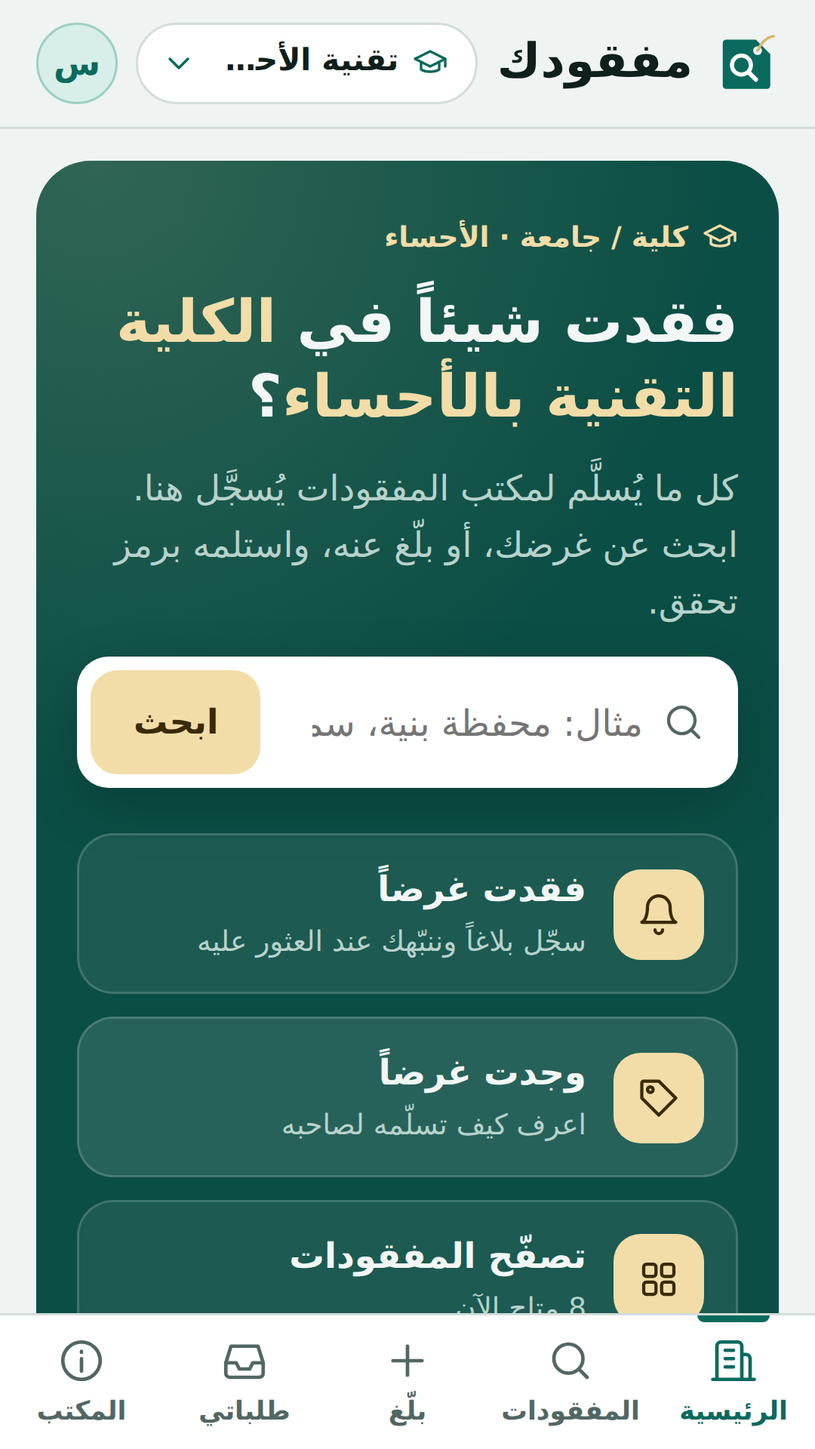
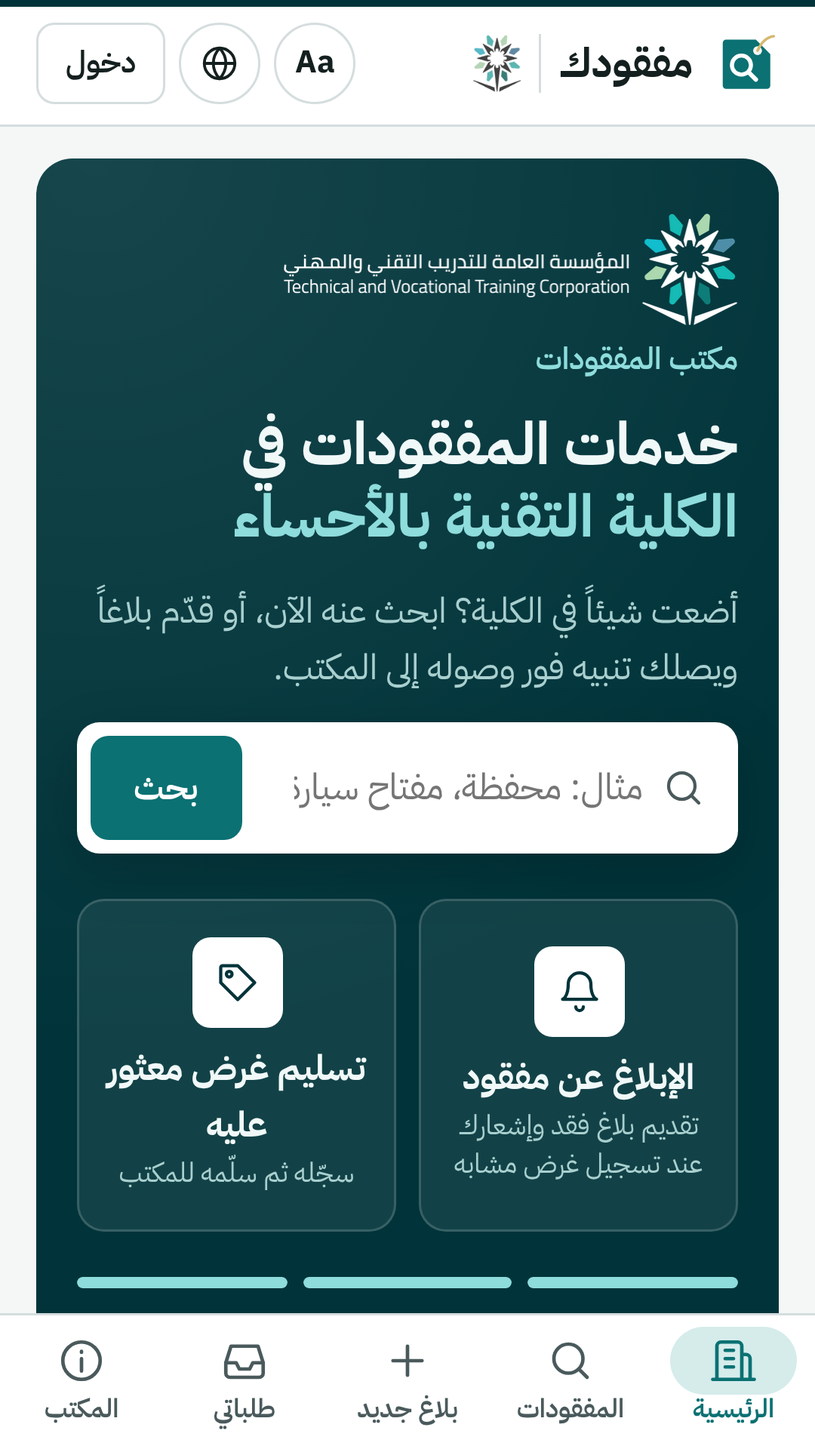
H40: فحص شامل للموقع المنشور والكود (الإصدار 61، بلا تغيير في القواعد)
الموقع الحي (متصفح حقيقي، بلا دخول): القواعد v23 منشورة، وApp Check مُلزَم لـ Firestore،
وكل البيانات الخاصة مرفوضة للزائر. على المالك: سياسة كلمة المرور 8 (الآن 6)، وحذف localhost،
وإلزام App Check للدخول، وsamplesOff.

- CSP: connect-src يسمح بـ www.google.com/recaptcha/ (كانت تمنع طلبات reCAPTCHA أربع مرات
  في كل فتح)؛ check-i18n يفحص مصادر reCAPTCHA التي توصي بها Google
- قيد «سُلّم بالرمز» في السجل (لا يُحذف أبداً) بلا اسم المستلم وآخر 4 من هويته، كما تَعِد سياسة
  الخصوصية بعد «حذف حسابي»؛ من استلم من checks ويظهر في السجل (logNote)
- عامل الخدمة يحذف نسخ mafqoodak-… القديمة فقط (النطاق مشترك مع مواقع GitHub Pages الأخرى)
- «طلباتي» لا تتوقف بنتيجة مطابقة ذكية تالفة في بلاغ قديم
- رسالتا دخول: سياسة كلمة المرور، والبريد المسجّل بطريقة دخول أخرى (auth.otherMethod)
- صور التثبيت من الواجهة الحالية (tools/shots.mjs)، وfirebase.json لا يستثنيها
- fuzz يغطي حقول H33 وما بعدها ومسارات gclaim/receipt/done (427 زيارة)، وaudit 12–15 (76)

Claude-Session: https://claude.ai/code/session_01GTL5hgyrsLVw2StpGT5HeY

diff --git a/index.html b/index.html
@@ -8,8 +8,10 @@
        frame-ancestors لا تعمل داخل meta، لذلك يمنع main.js عرض التطبيق داخل إطار (clickjacking).
        H27: السكربتات من gstatic مقصورة على مجلد Firebase بالإصدار نفسه (12.19.0) ومجلد reCAPTCHA، لا الموقع كله؛
        عند رفع إصدار Firebase غيّره هنا أيضاً (tools/check-i18n.mjs يتحقق من التطابق).
-       والخطوط من الموقع نفسه (font-src 'self')، فلا يُسمح بموقعَي Google Fonts -->
-  <meta http-equiv="Content-Security-Policy" content="default-src 'self'; script-src 'self' https://www.gstatic.com/firebasejs/12.19.0/ https://www.gstatic.com/recaptcha/ https://apis.google.com https://www.google.com/recaptcha/ 'sha256-V4SyzImrP7dTHXCHWWZSv/seVG+y3wVG0HI/CbJdjgQ='; style-src 'self' 'unsafe-inline'; font-src 'self'; img-src 'self' data: blob: https://*.googleusercontent.com; connect-src 'self' https://*.googleapis.com https://api.emailjs.com; frame-src https://mafqoodak-50269.firebaseapp.com https://www.google.com/recaptcha/ https://recaptcha.google.com; worker-src 'self'; manifest-src 'self'; object-src 'none'; base-uri 'self'; form-action 'self'">
+       والخطوط من الموقع نفسه (font-src 'self')، فلا يُسمح بموقعَي Google Fonts.
+       H40: connect-src يسمح بـ www.google.com/recaptcha/ كما توصي Google لـ reCAPTCHA Enterprise (App Check):
+       كان سكربتها يطلب منه أربع مرات في كل فتح فتمنعه السياسة وتظهر أخطاء في وحدة التحكم (tools/check-i18n.mjs يتحقق منه) -->
+  <meta http-equiv="Content-Security-Policy" content="default-src 'self'; script-src 'self' https://www.gstatic.com/firebasejs/12.19.0/ https://www.gstatic.com/recaptcha/ https://apis.google.com https://www.google.com/recaptcha/ 'sha256-V4SyzImrP7dTHXCHWWZSv/seVG+y3wVG0HI/CbJdjgQ='; style-src 'self' 'unsafe-inline'; font-src 'self'; img-src 'self' data: blob: https://*.googleusercontent.com; connect-src 'self' https://*.googleapis.com https://api.emailjs.com https://www.google.com/recaptcha/; frame-src https://mafqoodak-50269.firebaseapp.com https://www.google.com/recaptcha/ https://recaptcha.google.com; worker-src 'self'; manifest-src 'self'; object-src 'none'; base-uri 'self'; form-action 'self'">
   <title>مكتب المفقودات - الكلية التقنية بالأحساء | مفقودك</title>
   <meta name="description" content="مكتب المفقودات الإلكتروني في الكلية التقنية بالأحساء: ابحث عن غرضك المفقود، وقدّم بلاغ فقد، واستلم غرضك من المكتب برمز تحقق.">
   <link rel="canonical" href="https://kidpom3-hue.github.io/mafqoodak/">

diff --git a/js/views/visitor.js b/js/views/visitor.js
@@ -611,7 +611,12 @@ export function reportCardMine(r, focus){
   // «قد يكون لك» (H10): اقتراح آلي واحد في كل مرة بدليل عام، ولا شيء منه مع ترشيح موظف نشط
   const auto = r.status === 'open' ? suggestFor(r) : null;
   const no = rejectedOf(r);
-  const ai = r.ai?.matches || [];
+  /* H40: نتيجة المطابقة الذكية المحفوظة بأنواع آمنة: قائمة كائنات فقط، ثم الأغراض المتاحة منها التي لم يرفضها صاحب البلاغ.
+     بلاغ قديم (قبل قواعد v9) بقيمة غير قائمة كان يوقف «طلباتي» كلها (ai.map is not a function)، وقائمة كل أغراضها غير متاحة
+     كانت تعرض عنوان «اقترحها الذكاء الاصطناعي» فوق قائمة فارغة؛ الآن «لم يجد…» كأن لا نتائج */
+  const ai = (Array.isArray(r.ai?.matches) ? r.ai.matches : []).filter(m => m && typeof m === 'object')
+    .map(m => ({it: item(String(m.id ?? '')), reason: typeof m.reason === 'string' ? m.reason : ''}))
+    .filter(x => x.it && ACTIVE.includes(x.it.status) && !no.has(x.it.id));
   // طلب استلام نشط مرتبط بالبلاغ: لا زر إغلاق، بل متابعة الطلب (إن رُفض يعود البلاغ كما كان)
   const active = linkedClaim(r);
   const closeBtn = active ? '' : `<button class="btn sm ghost" data-act="closeReport" data-id="${esc(r.id)}">${icon('check')}${t('rc.foundIt')}</button>`;
@@ -638,7 +643,7 @@ export function reportCardMine(r, focus){
       ${pickBox}
       ${auto ? `<div class="pick-box maybe-box"><span class="t">${icon('search')}${t('rc.maybe')}</span>${sugg(auto)}<p class="hint">${t('rc.maybeHint')}</p></div>`
         : !pick && !active ? `<div class="note">${icon('clock')}<span>${t('rc.none')}</span></div>` : ''}
-      ${ai.length ? `<span class="label">${icon('spark')} ${t('rc.ai')}</span><div class="list">${ai.map(m => { const it = item(m.id); return it && ACTIVE.includes(it.status) && !no.has(it.id) ? `<div>${miniItem(it)}<div class="reason">${esc(m.reason || '')}</div></div>` : ''; }).join('')}</div>`
+      ${ai.length ? `<span class="label">${icon('spark')} ${t('rc.ai')}</span><div class="list">${ai.map(({it, reason}) => `<div>${miniItem(it)}<div class="reason">${esc(reason)}</div></div>`).join('')}</div>`
         : r.ai ? `<div class="note">${icon('spark')}<span>${t('rc.aiNone', {when: relT(r.ai.at)})}</span></div>` : ''}
       <div class="btn-row">
         ${aiReady() ? `<button class="btn sm soft" data-act="aiMatch" data-id="${esc(r.id)}">${icon('spark')}${t('rc.aiMatch')}</button>` : ''}

diff --git a/js/views/staff.js b/js/views/staff.js
@@ -140,6 +140,11 @@ export function staffItems(){
 export const logLabel = a => hasKey('log.' + a) ? t('log.' + a) : esc(a);
 // صاحب الطلب: من الطلب المحمّل، وإلا من رقمه ({itemId}_{uid}، أو g_{uid}_{cat}_{وقت} للطلب بالوصف)
 const claimUid = id => [...S.claims, ...(S.claimHist || [])].find(c => c.id === id)?.uid || (id.startsWith('g_') ? id.split('_')[1] : id.slice(id.indexOf('_') + 1));
+/* H40: ملاحظة القيد في السجل. قيد التسليم بالرمز لم يعد يحفظ اسم المستلم وآخر 4 من هويته (السجل لا يُمحى، وسياسة الخصوصية
+   تَعِد بمسحها مع «حذف حسابي»)، فيُعرض من استلم من checks: المفوَّض أو تجاوز الإدارة، والاسم في بطاقة الطلب نفسها */
+const HO_ROLE = ['ho.byDelegate', 'ho.override'];
+const logNote = e => typeof e.note === 'string' && e.note && !MS_NOTE.test(e.note) ? noteText(e.note)
+  : Array.isArray(e.checks) ? e.checks.filter(k => HO_ROLE.includes(k)).map(k => t(k)).join(t('c.listSep')) : '';
 export function timeline(i){
   ensureLogs(i);
   const L = S.logs[i.id];
@@ -155,7 +160,7 @@ export function timeline(i){
         <b>${logLabel(e.action)}</b>
         <span class="meta">${fmtDateTime(e.at)}${e.by ? ` · ${t('tl.by')} ${person(e.by)}` : ''}</span>
         ${claimant ? `<span class="meta">${t('tl.claimant')} ${person(claimant)}</span>` : ''}
-        ${e.note && !MS_NOTE.test(e.note) ? `<span class="tl-note">${esc(noteText(e.note))}</span>` : ''}
+        ${logNote(e) ? `<span class="tl-note">${esc(logNote(e))}</span>` : ''}
       </div></li>`; }).join('')}</ol>
     ${events.length < 2 ? `<p class="hint">${t('tl.hint')}</p>` : ''}
   </div>`;
@@ -479,7 +484,7 @@ function claimHistory(c, open){
   if (!Array.isArray(L) || !L.length) return claimTimeline(c, true);
   const fields = timelineEvents(c, true).filter(([k, ms]) => !STAFF_EV(k) || !L.some(e => Math.abs((e.at || 0) - ms) < NEAR_MS));
   const ev = [...fields.map(([k, ms]) => ({label: t(k), at: ms})),
-    ...L.filter(e => typeof e.at === 'number').map(e => ({label: logLabel(e.action), at: e.at, by: e.by, note: e.note && !MS_NOTE.test(e.note) ? noteText(e.note) : ''}))]
+    ...L.filter(e => typeof e.at === 'number').map(e => ({label: logLabel(e.action), at: e.at, by: e.by, note: logNote(e)}))]
     .sort((a, b) => a.at - b.at);
   return `<div class="ctl-box"><span class="ctl-h">${icon('clock')}${t('ctl.title')}</span>
     <ol class="ctl" aria-label="${t('ctl.title')}">${ev.map(e => ctlRow(e.label, e.at,

diff --git a/sw.js b/sw.js
@@ -1,7 +1,7 @@
 // Service Worker: يحفظ ملفات التطبيق ليفتح بسرعة ويعمل عند ضعف الاتصال.
 // الاستراتيجية: الشبكة أولاً (لتظهر تعديلاتك فوراً)، ثم النسخة المحفوظة إذا انقطع الاتصال.
 // عند تغيير أسماء الملفات غيّر رقم الإصدار هنا.
-const CACHE = 'mafqoodak-v60';   // = APP_VERSION في js/config.js (ارفعهما معاً في كل PR)
+const CACHE = 'mafqoodak-v61';   // = APP_VERSION في js/config.js (ارفعهما معاً في كل PR)
 // H27: الخطوط (مجلد fonts) في مخزن مستقل لا يُمسح مع كل إصدار (الملفات لا تتغير؛ اسم جديد للخط = ملف جديد).
 // تُحفظ عند أول استخدام فقط، فلا يُعاد تنزيل 350 KB مع كل تحديث. غيّر الرقم هنا فقط إن استبدلت ملف خط بالاسم نفسه
 const FONTS = 'mafqoodak-fonts-v1';
@@ -24,7 +24,9 @@ self.addEventListener('install', e => {
   e.waitUntil(caches.open(CACHE).then(c => c.addAll(SHELL.map(u => new Request(u, {cache: 'reload'})))).then(() => self.skipWaiting()));
 });
 self.addEventListener('activate', e => {
-  e.waitUntil(caches.keys().then(keys => Promise.all(keys.filter(k => k !== CACHE && k !== FONTS).map(k => caches.delete(k)))).then(() => self.clients.claim()));
+  // H40: يحذف نسخ مفقودك القديمة فقط (mafqoodak-…). النطاق kidpom3-hue.github.io مشترك بين كل مواقع GitHub Pages في الحساب،
+  // و caches.keys() يرجع مخازنها كلها، فكان التحديث يمسح مخازن أي موقع آخر على النطاق نفسه
+  e.waitUntil(caches.keys().then(keys => Promise.all(keys.filter(k => k.startsWith('mafqoodak-') && k !== CACHE && k !== FONTS).map(k => caches.delete(k)))).then(() => self.clients.claim()));
 });
 self.addEventListener('fetch', e => {
   const req = e.request;

diff --git a/js/workflow.js b/js/workflow.js
@@ -353,7 +353,10 @@ export async function verifyHandover(c, receiver = {}, checks = [], code = '', o
   itemUpdate(b, i, {status: 'returned', returnedAt: Date.now(), updatedAt: Date.now()});
   // اختُبر في المحاكي: التسليم + إغلاق 3 منافسين (بصورهم وحصصهم) يبقى ضمن حد القراءات في batch واحد
   const skippedOwn = await closeOthers(b, i, c.id, 'rejected', tAr('sys.handedVerified'));
-  log(b, i.officeId, 'handover', {itemId: i.id, claimId: c.id, note, checks: keys.slice(0, 10)});
+  /* H40: قيد السجل بلا اسم المستلم وآخر 4 أرقام من هويته: السجل لا يُعدَّل ولا يُحذف أبداً (القواعد)، فكان الاسم يبقى فيه بعد
+     «حذف حسابي»، خلافاً لسياسة الخصوصية («يبقى لدى المكتب سجل التسليم فقط… دون أي بيانات شخصية عنك»). الاسم في handoverNote
+     بالطلب نفسه (يُمسح مع حذف الحساب)، ومن استلم (صاحب الطلب أو مفوَّضه أو بتجاوز الإدارة) في checks */
+  log(b, i.officeId, 'handover', {itemId: i.id, claimId: c.id, checks: keys.slice(0, 10)});
   // رفض القواعد: نقرأ الطلب والغرض من جديد لنعرف السبب؛ إن لم يتغيرا فالرمز لا يطابق البصمة
   await commit(b, true).catch(async e => {
     if (!(e instanceof FlowError)) throw e;

diff --git a/js/state.js b/js/state.js
@@ -785,8 +785,11 @@ export async function write(fn, okMsg){
 export function authErr(e){
   const c = e?.code || '';
   if (c.includes('popup-closed') || c.includes('cancelled-popup')) return '';
+  // H40: سياسة كلمة المرور في Firebase (password-does-not-meet-requirements) ورسالة البريد المسجّل بطريقة دخول أخرى
+  // (حساب بكلمة مرور ثم «الدخول بحساب Google» بالبريد نفسه) كانتا «تعذّر تسجيل الدخول» بلا سبب
   const k = [['invalid-credential', 'badCred'], ['wrong-password', 'badCred'], ['user-not-found', 'badCred'], ['email-already-in-use', 'emailUsed'],
-    ['weak-password', 'weakPass'], ['invalid-email', 'badEmail'], ['too-many-requests', 'tooMany'], ['network-request-failed', 'offline'],
+    ['weak-password', 'weakPass'], ['password-does-not-meet-requirements', 'weakPass'], ['account-exists-with-different-credential', 'otherMethod'],
+    ['invalid-email', 'badEmail'], ['too-many-requests', 'tooMany'], ['network-request-failed', 'offline'],
     ['unauthorized-domain', 'domain'], ['user-mismatch', 'mismatch'], ['operation-not-allowed', 'method']].find(([x]) => c.includes(x));
   return t('auth.' + (k ? k[1] : 'fail'));
 }

diff --git a/js/i18n/ar.js b/js/i18n/ar.js
@@ -88,6 +88,7 @@ export const AR = {
   "auth.domain": "هذا النطاق غير مصرّح له في Firebase. أضفه من Authentication ← Settings ← Authorized domains.",
   "auth.mismatch": "اخترت حساب Google مختلفاً عن حسابك الحالي.",
   "auth.method": "طريقة الدخول هذه غير مفعّلة في Firebase Authentication.",
+  "auth.otherMethod": "هذا البريد مسجّل بطريقة دخول أخرى. ادخل بالبريد وكلمة المرور، أو اضغط «نسيت كلمة المرور؟».",
   "auth.fail": "تعذّر تسجيل الدخول. يُرجى المحاولة مرة أخرى.",
   // انتقالات الحالة، وملاحظات النظام المخزّنة (sys.*)، والتصرّف، والنقل، والذكاء الاصطناعي
   "wf.gone": "لم يعد هذا الغرض موجوداً.",

diff --git a/js/i18n/en.js b/js/i18n/en.js
@@ -88,6 +88,7 @@ export const EN = {
   "auth.domain": "This domain isn't authorised in Firebase. Add it under Authentication → Settings → Authorized domains.",
   "auth.mismatch": "You picked a different Google account from the one you're signed in with.",
   "auth.method": "This sign-in method isn't enabled in Firebase Authentication.",
+  "auth.otherMethod": "This email is registered with another sign-in method. Sign in with email and password, or tap “Forgot your password?”.",
   "auth.fail": "Sign-in failed. Please try again.",
   // انتقالات الحالة، وملاحظات النظام المخزّنة (sys.*)، والتصرّف، والنقل، والذكاء الاصطناعي
   "wf.gone": "This item no longer exists.",

diff --git a/js/config.js b/js/config.js
@@ -18,7 +18,7 @@ export const firebaseConfig = {
 // رقم إصدار التطبيق (H6): يظهر بخط صغير في أسفل قائمة الحساب وفي التذييل، لتتأكد أن جوالك يعرض آخر نسخة.
 // ارفعه مع CACHE في sw.js في كل Pull Request (الرقمان متساويان دائماً: APP_VERSION '23' ⇔ CACHE 'mafqoodak-v23').
 // tools/check-i18n.mjs يفشل إن اختلفا.
-export const APP_VERSION = '60';
+export const APP_VERSION = '61';
 
 // 2) إعدادات التطبيق
 export const SETTINGS = {

diff --git a/.claude/CLAUDE.md b/.claude/CLAUDE.md
@@ -9,7 +9,7 @@ Lost-and-found PWA. First deployment: Technical College Al-Ahsa (office id `tc-a
 - **Lazy loading (H8):** `js/lazy.js` loads heavy modules on first use only: `staff` (views/staff.js + migrate.js), `admin`, `statsView`, `stats`, `audit`, `print`, `gov`, `qr`, `ai`, `sample`. Routes in `ui.js` mark them `{lazy: 'name', v: 'fnName', update: 'fnName'}` and `routeFns()` resolves them (not loaded yet → `loadingHtml()` spinner, then `renderAll()` when it arrives; offline failure → `err.offline`). Views use `need(name)` (module or null + start loading), handlers `mod(name)` / `await load(name)` (`SM()` in actions.js = staff module). **Eager modules must never statically import a lazy one** (visitor needs from staff.js live in common.js: `qaBox`, `dateOf`, `officeUrl`; `aiReady` lives in firebase.js). `i18n.js` imports only `ar.js` and loads `en.js` with top-level await when needed; `setLang()` is async. The footer QR fills `#sf-qr` after `load('qr')`. Lazy modules are **not** in modulepreload but **are** in `SHELL` (offline). Visitor download: 659 KB → 488 KB.
 - `index.html` lists every eager app module in `<link rel="modulepreload">` (parallel download = faster first render): **add any new eager `js/` module there, any new module to `SHELL` in `sw.js`** (bump its `CACHE` version). A tiny inline script in `<head>` applies the saved theme (`mfq:theme`) and language (`mfq:lang`) before first paint.
 - Firebase Auth (Google + Email/Password), Cloud Firestore, optional Firebase AI Logic (Gemini) behind `SETTINGS.enableAI`.
-- App Check (phase H0): `firebase-app-check.js` (same pinned version, static import + modulepreload) is initialised in `firebase.js` right after `initializeApp` (before Auth/Firestore/AI) with `ReCaptchaEnterpriseProvider(SETTINGS.appCheck.siteKey)` (H35, version 54: reCAPTCHA Enterprise, key `6Lcfz-stAAAAAGiOjXxFhWTvh8v07X1vraJne1VP` set) and `isTokenAutoRefreshEnabled: true`, only when `siteKey` is set (`''` = off); `debug: true` sets `self.FIREBASE_APPCHECK_DEBUG_TOKEN` only when `location.hostname` is localhost/127.0.0.1 — keep `debug: false` in the repo, never commit a debug token. The CSP already allows `www.google.com/recaptcha/` (enterprise.js), `www.gstatic.com/recaptcha/` and the reCAPTCHA frames. Enforcement is switched on manually in the Firebase console after monitoring (README). The service worker only caches same-origin files, so gstatic modules are never in `SHELL`. Test stubs for it (`ReCaptchaEnterpriseProvider`) live in `tools/a11y.mjs`, `badges.mjs`, `fuzz.mjs`, `match.mjs`, `device.mjs`, `proof.mjs`.
+- App Check (phase H0): `firebase-app-check.js` (same pinned version, static import + modulepreload) is initialised in `firebase.js` right after `initializeApp` (before Auth/Firestore/AI) with `ReCaptchaEnterpriseProvider(SETTINGS.appCheck.siteKey)` (H35, version 54: reCAPTCHA Enterprise, key `6Lcfz-stAAAAAGiOjXxFhWTvh8v07X1vraJne1VP` set) and `isTokenAutoRefreshEnabled: true`, only when `siteKey` is set (`''` = off); `debug: true` sets `self.FIREBASE_APPCHECK_DEBUG_TOKEN` only when `location.hostname` is localhost/127.0.0.1 — keep `debug: false` in the repo, never commit a debug token. The CSP already allows `www.google.com/recaptcha/` (enterprise.js), `www.gstatic.com/recaptcha/` and the reCAPTCHA frames, and (H40) `connect-src https://www.google.com/recaptcha/` (Google's documented list; without it the live site logged 4 CSP errors per load — `check-i18n.mjs` fails when any recommended reCAPTCHA source is missing while `siteKey` is set). Enforcement is switched on manually in the Firebase console after monitoring (README). The service worker only caches same-origin files, so gstatic modules are never in `SHELL`. Test stubs for it (`ReCaptchaEnterpriseProvider`) live in `tools/a11y.mjs`, `badges.mjs`, `fuzz.mjs`, `match.mjs`, `device.mjs`, `proof.mjs`.
 - Hosted on GitHub Pages (relative paths only — the app lives under `/mafqoodak/`). `firebase.json` also allows Firebase Hosting.
 - Must stay on the free Spark plan: no Cloud Storage (photos are compressed JPEG data URLs in Firestore docs, < 350 KB), no Cloud Functions, no phone SMS auth.
 
@@ -41,9 +41,9 @@ Lost-and-found PWA. First deployment: Technical College Al-Ahsa (office id `tc-a
 - Accessibility: skip link `#skip` (first element, text set in `applyLang`), `main#main` (tabindex -1), bottom `nav` labelled, toast is a persistent `aria-live="polite"` region shown with class `show` (never `hidden`), 2px focus ring. `tools/a11y.mjs` (`cd tools && npm run a11y`) runs through Playwright with the Firebase stubs in `tools/a11y-stubs/`, on 28 pages, sheets and error states × both languages × both modes: axe-core (serious/critical; skipped with a warning when `axe-core` isn't installed) **plus** H31 browser checks that always run — every button/link/field/tab/dialog has a name (Chromium AX tree), aria refs and `for` point to existing ids, no duplicate ids, exactly one h1 and no heading skips, touch targets ≥ 36px (inline links in sentences and chart bars exempt), text contrast ≥ 4.5:1 (3:1 large). Route changes move focus to the page h1 (`focusPage()` in `ui.js`), every page has an h1 (`ensureH1()` adds an `.sr-only` one from the breadcrumb name), sheets get `aria-labelledby` (first heading/bold text) and focus.
 - `js/theme.js` — `auto`/`light`/`dark` (`data-theme` on `<html>`, `LS theme`); picker `themePicker()` in `views/common.js` (account sheet + header «Aa» sheet).
 - **Badges (H6): one number everywhere.** Every numeric badge goes through `tabNum(newCount, count)` in `views/common.js` — never hand-written `class="count"`/`class="tab-n"` HTML: red `.count` = new unread only, else grey `.tab-n` = item count, nothing at 0, never both. Task/item counts ("needs attention", section titles, search results, pending invites) are grey (`tabNum(0, n)`). Bottom-nav badges = new unread only and 0 while that page is open; `document.title`/`navigator.setAppBadge` (`syncTitle()` in `notify.js`, H31: was `staffBadge`) show the same new-unread number (staff: `staffNew('claims') + staffNew('reports')`, others: `unseenCount()`).
-- `tools/` — developer-only checks (not loaded by the app): `tools/check-i18n.mjs` (no Arabic in code, dictionaries in sync, APP_VERSION = CACHE, CSP hash/Firebase version, H31: the wording rules — no «!», no «كود», no first person plural in ar/en, every «اضغط «X»»/tap “X” quotes an existing label —, `modulepreload` list = the eager import graph of `main.js`, and `SHELL` holds every `js/**` file and every `BRANDS` logo); `tools/badges.mjs` (`cd tools && npm run badges`: Playwright + `a11y-stubs`, fails in Arabic when a button/heading holds both numbers, when a new event isn't red, when red survives a tab click or a reload, when a pending staff pick with no reply is red, or when admin pages show red); `tools/demo.mjs` (`npm run demo`, H38: the home clip — sync, live updates, pause, Tab order, both languages, reduced motion, no horizontal scroll, main-thread budget, offline); `tools/fuzz.mjs` (`npm run fuzz`, H7: HTML/JS payload in every text field + wrong-type data, every ROUTES entry × visitor/claimant/staff/admin × ar/en at 320 with all `<details>` opened and tabs clicked, payload share links, plus a CSP-enabled pass; fails on payload execution, pageerror/render exception, `img[src=x]`, horizontal scroll or CSP violation); **run `node tools/check-i18n.mjs && cd tools && npm run badges && npm run match && npm run device && npm run proof && npm run form && npm run demo && npm run a11y && npm run test:rules && npm run fuzz && npm run audit && npm run lint:rules` before every PR** (H33: `tools/proof.mjs` = registry, claim snapshot, proof strength, delegate, receiver binding, admin override, receipt; H39: `tools/audit.mjs` = the H39 regressions, 63 checks in 11 sections, and `tools/rules-lint.mjs` = a structural check of `firestore.rules` without the emulator — balanced brackets, every `allow` ends with `;`, every called function defined, `let` before `return`, a version in the header — exported as `lintRules(src)`); `tools/rules.test.mjs` runs the rules on the Firestore emulator (`cd tools && npm install && npm run test:rules`, needs Java).
+- `tools/` — developer-only checks (not loaded by the app): `tools/check-i18n.mjs` (no Arabic in code, dictionaries in sync, APP_VERSION = CACHE, CSP hash/Firebase version, H31: the wording rules — no «!», no «كود», no first person plural in ar/en, every «اضغط «X»»/tap “X” quotes an existing label —, `modulepreload` list = the eager import graph of `main.js`, and `SHELL` holds every `js/**` file and every `BRANDS` logo); `tools/badges.mjs` (`cd tools && npm run badges`: Playwright + `a11y-stubs`, fails in Arabic when a button/heading holds both numbers, when a new event isn't red, when red survives a tab click or a reload, when a pending staff pick with no reply is red, or when admin pages show red); `tools/demo.mjs` (`npm run demo`, H38: the home clip — sync, live updates, pause, Tab order, both languages, reduced motion, no horizontal scroll, main-thread budget, offline); `tools/fuzz.mjs` (`npm run fuzz`, H7: HTML/JS payload in every text field + wrong-type data, every ROUTES entry × visitor/claimant/staff/admin × ar/en at 320 with all `<details>` opened and tabs clicked, payload share links, plus a CSP-enabled pass; fails on payload execution, pageerror/render exception, `img[src=x]`, horizontal scroll or CSP violation); **run `node tools/check-i18n.mjs && cd tools && npm run badges && npm run match && npm run device && npm run proof && npm run form && npm run demo && npm run a11y && npm run test:rules && npm run fuzz && npm run audit && npm run lint:rules` before every PR** (H40: `npm run shots` regenerates the manifest screenshots after big UI changes; not a check) (H33: `tools/proof.mjs` = registry, claim snapshot, proof strength, delegate, receiver binding, admin override, receipt; H39: `tools/audit.mjs` = the H39 regressions, 63 checks in 11 sections, and `tools/rules-lint.mjs` = a structural check of `firestore.rules` without the emulator — balanced brackets, every `allow` ends with `;`, every called function defined, `let` before `return`, a version in the header — exported as `lintRules(src)`); `tools/rules.test.mjs` runs the rules on the Firestore emulator (`cd tools && npm install && npm run test:rules`, needs Java).
 - **Backup (H8):** admin «المواقع» → per office «تصدير نسخة احتياطية (JSON)» (`ACT.backup`): offices + items + itemSecrets + claims + reports + foundReports + logs of that office (equality queries), no photo docs, no `users`/private; logs `backup` via `wf.logBackup` (audit filter `backup`). Stored notes use `tpAr()` for Arabic plurals.
-- **Deploy (H8):** `_config.yml` excludes tools, docs, README.md, firestore.rules, firestore.indexes.json and firebase.json from GitHub Pages; this file lives in `.claude/CLAUDE.md` (H12), which Jekyll never publishes (dot folders are skipped); `firebase.json` hosting also ignores tools, docs, screenshots, `_config.yml` and `.claude`. `<noscript>` message in both languages.
+- **Deploy (H8):** `_config.yml` excludes tools, docs, README.md, firestore.rules, firestore.indexes.json and firebase.json from GitHub Pages; this file lives in `.claude/CLAUDE.md` (H12), which Jekyll never publishes (dot folders are skipped); `firebase.json` hosting also ignores tools, docs, `_config.yml` and `.claude` (H40: not `screenshots`, which the manifest uses). `<noscript>` message in both languages.
 - **Ownership proof (rules v7, version 26; requested as «H8: تقوية إثبات الملكية», named H9 in the docs to avoid clashing with the H8 performance phase):**
   - *Prior report:* `priorReport(c, item)` in `state.js` = the claim's `reportId` report (one read if not loaded) when it belongs to the claimant and `reportBefore(report, item.createdAt)` (H39, rules v23: `contentAt` = server time written on create and on every content edit — `reportContent()` in the rules — must be before the item; a legacy report without `contentAt` counts only when its `createdAt` and `editedAt` are a full day before the item, because device times are accepted ±1 day). Staff see the pill «بلاغ سابق للعثور» and an extra comparison section (`reportChecks()` in `staff.js`: desc/colour/place/date/details vs `itemSecrets`, same principles as the claim rows); each ✓ is marked «من البلاغ» and counts double in `claimChecks` (hits/total). Claimants never see comparison results.
   - *Anti-guessing quota:* `claimQuota/{uid}` = `{open: [claimIds], lastByCat: {cat: serverTime}}` written in the claim-create batch (`createLimited(path, data, extra)`); rules allow ≤ 3 open claims and one claim per item category per 24 h, and only allow removing ids whose claim is closed or deleted in the same batch. `workflow.js` `closeClaim(b, c, patch)` is used by every close (reject, handover, release, status change, disposal, delete via the async `closeOthers`, H13a): it also deletes the claim's `claimProofs` and queues `arrayRemove` on the claimant's quota (flushed once per uid in `commit`). Reactivated claims are not re-added. Client pre-checks `CLAIM_MAX_OPEN`/`CLAIM_CAT_MS` (`constants.js`) with messages `cl.quotaFull`/`cl.quotaCat`. Staff card shows «سجل صاحب الطلب» from `claimerHist(c, open)` (one list query per claimant+office when the card is opened; warn colour at ≥ 2 rejected).
@@ -168,6 +168,10 @@ Lost-and-found PWA. First deployment: Technical College Al-Ahsa (office id `tc-a
   - *Test stubs (`tools/a11y-stubs/firestore.js`, backward compatible):* `__FAKE.denyField` (reject writes holding that key, like older rules), `snapErr` (path regex whose subscription fails), `cacheOnly` (doc path regex that only gets a cache «missing» snapshot), `getErr` (path regex whose `getDoc` throws); snapshots carry `metadata.fromCache`. `tools/audit.mjs` fails 35 of 63 checks on version 58.
   - *Deploy:* merge → `cd tools && npm run test:rules` → publish v23. The new client also works with v22 (fallback above); with v23 first, old cached clients can't edit report content until they refresh.
   - *Not fixable in code (README «إعدادات أمان يدوية»):* App Check enforcement, API-key referrer restriction, `claimDomains`, password policy, email enumeration protection, and the shared origin `kidpom3-hue.github.io` (localStorage/IndexedDB shared with the account's other Pages sites; a custom domain or Firebase Hosting isolates it).
+- **Live-site & code scan (H40, version 61, no rules change; findings in `docs/AUDIT.md`):** checked live (real browser on the owner's computer, signed out): rules v23 are published, App Check is enforced for Firestore (no token = 403), every private collection is denied to visitors, email enumeration protection is on; still on the owner: password policy is 6 (set 8), `localhost` is an authorized domain, App Check for Authentication isn't enforced, `samplesOff` unset.
+  - *Fixes:* CSP `connect-src` + reCAPTCHA (above). The code-handover log has **no receiver name/last 4** (`logs` can never be edited or deleted, and the privacy policy promises they go with «حذف حسابي»): the name stays in `claims.handoverNote`; the role stays in `checks` (`ho.byDelegate`/`ho.override`) and `logNote(e)` in `staff.js` shows it in the item timeline and the claim history. **Never put personal data in a `logs` note.** `sw.js` `activate` deletes only old `mafqoodak-…` caches (the origin is shared with the account's other Pages sites). `reportCardMine` reads `r.ai.matches` type-safely (a non-list crashed «طلباتي»; no active hit = `rc.aiNone`). `authErr` maps `password-does-not-meet-requirements` → `auth.weakPass` and `account-exists-with-different-credential` → `auth.otherMethod`. Manifest screenshots regenerated from the current UI with sample data (`tools/shots.mjs`, `npm run shots`).
+  - *Tests:* `fuzz.mjs` now injects into the H33+ fields (claim `reg`, `delegate`, `belongings`, `reports.ai`, `config.appName`, `claimDomains`, `pubColor`, `disposal`, an invite id, log action/checks, proof/photo data) and renders `gclaim`/`receipt`/`done` with params (427 visits); `audit.mjs` sections 12–15 (76 checks, 8 fail on version 60).
+  - *Left (low, insider, documented):* staff-written times (`decidedAt`, `doneAt`, `askedAt`, `pickupBy`, `pickedAt`, `receivedAt`) have no type check in the rules; `items.createdAt` accepts up to +1 day; an item can be reserved for an approved claim on another item; visitors see `reservedFor`/`createdBy` uids on public returned items.
 - `docs/AUDIT.md` — audit findings and fixes.
 - `firestore.rules` — server-side security. **Any data-model change must be reflected here** and the user must re-publish rules in the Firebase console. Any new field in `reports`, `claims`, `users` or `staffRequests` must be added to that collection's `keys().hasOnly([...])` list in the rules, otherwise the write is rejected.
 

diff --git a/docs/AUDIT.md b/docs/AUDIT.md
@@ -14,6 +14,52 @@
 
 كل ما هو حرج أو مهم أُصلح في هذا الجزء.
 
+## H40: فحص شامل للموقع المنشور والكود (الإصدار 61، بلا تغيير في القواعد)
+
+**طريقة الفحص:** الموقع الحي (الإصدار 60) في متصفح حقيقي على جهاز المالك بلا تسجيل دخول: وحدة التحكم، والشبكة، وكل الصفحات العامة باللغتين وعلى عرض 320، وقراءة تجريبية لكل مجموعة في Firestore بصفة زائر، وطلب بلا رمز App Check، وإعدادات الدخول العامة (سياسة كلمة المرور والنطاقات). ثم قراءة القواعد والكود، وتوسيع فحص الحقن إلى حقول H33 وما بعدها، وكل فحوص المحاكاة.
+
+### الموقع الحي
+| البند | النتيجة |
+|---|---|
+| الإصدار | 60 (مخزن `mafqoodak-v60`)، وملفات المطوّر غير منشورة |
+| القواعد المنشورة | v23 (سلوك `itemPhotos` الجديد ظاهر للزائر) |
+| App Check لـ Firestore | الإلزام مفعّل: طلب بلا رمز = 403، وبرمز = 200 |
+| قراءة الزائر | كل المجموعات الخاصة مرفوضة، والأغراض العامة فقط (`public == true`)؛ لا نقود ولا أغراض خاصة |
+| Email enumeration protection | مفعّلة |
+| سياسة كلمة المرور | مفعّلة بحد **6** أحرف (المطلوب 8) |
+| النطاقات المصرّح بها للدخول | ما زال فيها `localhost` |
+| App Check لـ Authentication | يبدو غير مُلزَم (طلب دخول بلا رمز قُبل) |
+| `samplesOff` | غير مضبوط |
+| وحدة التحكم | 4 أخطاء CSP في كل فتح (reCAPTCHA، البند 1)، ولا أخطاء غيرها |
+
+### ما أُصلح
+| # | الخطورة | المشكلة | الإصلاح |
+|---|---|---|---|
+| 1 | مهمة | `connect-src` في CSP بلا `https://www.google.com/recaptcha/`: تمنع السياسة طلبات reCAPTCHA Enterprise (App Check) أربع مرات في كل فتح، خلاف توصية Google (قد يضعف تقييمها للزوار الحقيقيين بعد الإلزام) | أُضيف؛ و`check-i18n` يفشل إن نقص أي مصدر توصي به Google لـ reCAPTCHA ما دام مفتاح App Check موجوداً |
+| 2 | مهمة (خصوصية) | قيد «سُلّم بالرمز» في سجل العمليات يحفظ اسم المستلم وآخر 4 أرقام من هويته، والسجل لا يُعدَّل ولا يُحذف (القواعد): يبقيان بعد «حذف حسابي»، خلافاً لسياسة الخصوصية («يبقى سجل التسليم فقط… دون أي بيانات شخصية») | القيد بلا الاسم والرقم؛ من استلم (المفوَّض أو بتجاوز الإدارة) في `checks` ويظهر في السجل نصاً؛ الاسم في `handoverNote` بالطلب (يُمسح مع الحساب) |
+| 3 | منخفضة | عامل الخدمة يحذف عند كل تحديث كل مخازن النطاق `kidpom3-hue.github.io`، ومنها مخازن أي موقع GitHub Pages آخر في الحساب | يحذف نسخ `mafqoodak-…` القديمة فقط |
+| 4 | منخفضة | بلاغ قديم بنتيجة مطابقة ذكية ليست قائمة يوقف «طلباتي» كلها (`ai.map is not a function`)، وقائمة لا غرض متاحاً فيها تعرض عنوانها فوق قائمة فارغة | قائمة كائنات فقط، و«لم يجد…» حين لا غرض متاح |
+| 5 | منخفضة | رفض سياسة كلمة المرور في Firebase، والبريد المسجّل بطريقة دخول أخرى: «تعذّر تسجيل الدخول» بلا سبب | `auth.weakPass`، و`auth.otherMethod` الجديدة |
+| 6 | منخفضة | صور التثبيت في `manifest.webmanifest` من سبتمبر (الواجهة القديمة ورمز من 6 أرقام)، ويراها من يثبّت المنصة على Android | صور من الواجهة الحالية ببيانات مثال (`npm run shots`) |
+| 7 | منخفضة | `firebase.json` يستثني `screenshots` من النشر، فتنكسر صور التثبيت إن نُقل الموقع إلى Firebase Hosting | حُذف الاستثناء |
+
+**فحوص جديدة:** `fuzz` يغطي حقول H33 وما بعدها (نسخة «سجل أغراضي» في الطلب، والمفوَّض، و«سجل أغراضي» نفسه، والمطابقة الذكية، واسم التطبيق، ونطاق بريد الكلية، واللون العام، والتصرّف، ودعوة معرّفها حمولة، وقيد بإجراء وفحوص غريبة، وصور ليست صوراً) ومسارات بمعاملاتها (`gclaim`، `receipt`، `done`): 427 زيارة (كانت 355)، ولا حقن في أي حقل. `audit` الأقسام 12–15 (76 فحصاً؛ 8 منها تفشل على الإصدار 60). `check-i18n` يفحص مصادر reCAPTCHA في CSP.
+
+### باقٍ (منخفض: يحتاج حساب موظف، ولا تغيير في القواعد الآن)
+- أوقات يكتبها الموظف بلا نوع ولا حد في القواعد: `decidedAt`، `doneAt`، `askedAt`، `pickupBy` (الطلب)، `pickedAt` (البلاغ)، `receivedAt` (إشعار التسليم).
+- `items.createdAt` يُقبل حتى يوم في المستقبل (`fresh`)، فساعة جهاز موظف متقدمة تطيل نوافذ الـ24 ساعة (الأدلة والحذف) وتجعل بلاغاً بعد التسجيل «سابقاً للعثور».
+- حجز غرض لطلب مقبول على غرض آخر (القواعد لا تقارن `itemId` الطلب).
+- الزائر يرى في الأغراض العامة المُعادة `reservedFor` (فيه معرّف حساب صاحب الطلب) و`createdBy` (معرّف الموظف): معرّفات لا أسماء، للمرحلة الحكومية.
+
+### على المالك (README «إعدادات أمان يدوية»)
+- Authentication ← Settings: **Password policy** 8 أحرف (الآن 6)، وحذف `localhost` من **Authorized domains**.
+- App Check ← APIs ← **Authentication**: Enforce بعد المراقبة (Firestore مفعّل).
+- الإدارة ← «إيقاف البيانات التوضيحية نهائياً» (`samplesOff`).
+- اختياري: نطاق خاص أو Firebase Hosting (يعزل التخزين عن مواقع الحساب الأخرى ويرسل ترويسات الأمان في `firebase.json`)، و`claimDomains`.
+- اختياري: قيود «سُلّم بالرمز» القديمة فيها أسماء المستلمين؛ لا يعدّلها الموقع (القواعد)، فتُمسح ملاحظتها (`note`) من Firebase Console إن أردت مطابقة البيانات القديمة للسياسة.
+
+**الفحص:** check-i18n (1753 مفتاحاً)، و`lint:rules`، و`audit` 76، والشارات 29، والترشيح 44، و`device` 213، و`proof` 66، و`form` 178، و`demo` 29، و`a11y` 128، وfuzz 427 زيارة.
+
 ## H39: فحص الثغرات البرمجية والمنطقية والأمنية (الإصدار 59، قواعد v23)
 
 **طريقة الفحص:** قراءة كاملة لـ `firestore.rules` ولكل ملفات `js/` بحثاً عن ثغرات الصلاحيات والمنطق؛ ثم اختبار كل ثغرة على المحاكاة (Playwright مع بديل Firebase) قبل إصلاحها وبعده. الأداة الجديدة `tools/audit.mjs` (63 فحصاً في 11 قسماً) تفشل في 35 منها على الإصدار 58 وتنجح كلها على 59. `tools/rules-lint.mjs` يفحص بنية القواعد دون محاكي. **محاكي Firestore لم يعمل في بيئة الفحص** (الشبكة مقيدة)، فكُتبت اختبارات `v23-*` في `tools/rules.test.mjs` ولم تُشغَّل: شغّلها قبل نشر القواعد.

diff --git a/README.md b/README.md
@@ -294,6 +294,7 @@ App Check يضيف طبقة أخرى: يتأكد أن الطلبات تأتي م
 5. **App Check:**
    - المفتاح (reCAPTCHA Enterprise) موضوع في الكود منذ H35؛ باقٍ عليك تسجيله في Firebase Console ← App Check ← Apps ← **reCAPTCHA Enterprise**، والتأكد أن `kidpom3-hue.github.io` في نطاقات المفتاح.
    - راقب أسبوعاً في Firebase Console ← App Check (نسبة الطلبات الموثّقة)، ثم فعّل **Enforce** لـ Firestore وAuthentication.
+   - H40 (22 أكتوبر): **Firestore مُلزَم فعلاً** (الطلب بلا رمز يُرفض)؛ **Authentication يبدو غير مُلزَم** بعد: فعّله من App Check ← APIs.
    - بدونه يستطيع أي سكربت يستخدم المفاتيح العامة استهلاك حصة القراءة المجانية (50 ألف قراءة يومياً)، فيتوقف الموقع حتى اليوم التالي.
 6. **تقييد مفتاح API:**
    - Google Cloud Console ← APIs & Services ← **Credentials** ← افتح مفتاح `Browser key` الخاص بالمشروع.
@@ -303,9 +304,24 @@ App Check يضيف طبقة أخرى: يتأكد أن الطلبات تأتي م
    - في **Authorized domains** احذف `localhost`، وأبقِ `kidpom3-hue.github.io` و`mafqoodak-50269.firebaseapp.com`.
    - للتجربة على جهازك أضف `localhost` مؤقتاً ثم احذفه.
    - في **Password policy** اجعل الحد الأدنى 8 أحرف.
+   - H40 (22 أكتوبر): Email enumeration protection مفعّلة؛ أما سياسة كلمة المرور فحدّها **6** والنطاقات فيها `localhost` بعد.
 8. **بريد الكلية (اختياري):** الإدارة ← المواقع ← تعديل ← «نطاق بريد الكلية لطلب الاستلام» (مثل `tvtc.edu.sa`). تظهر عندها في صفحة الدخول عبارة «ادخل ببريدك في الكلية».
 9. **EmailJS (قبل تفعيله):** في لوحة EmailJS اجعل **Allowed origins** نطاق الموقع فقط (`https://kidpom3-hue.github.io`)، وضع حداً للإرسال.
 10. **تحقق من عدم نشر ملفات المطوّر:** شغّل `curl -I https://kidpom3-hue.github.io/mafqoodak/CLAUDE.md`، ويجب أن يرجع `404`.
+
+## فحص شامل للموقع والكود H40 (الإصدار 61، بلا تغيير في القواعد)
+فُحص الموقع المنشور في متصفح حقيقي (وحدة التحكم، والشبكة، وكل الصفحات باللغتين، وقراءة كل مجموعة بصفة زائر، وإعدادات الدخول والحماية)، ثم القواعد والكود وكل الفحوص. التفاصيل في [`docs/AUDIT.md`](docs/AUDIT.md). أهمها:
+- **سليم:** القواعد v23 منشورة، وApp Check مُلزَم لقاعدة البيانات، وكل البيانات الخاصة مرفوضة للزائر، ولا حقن في أي حقل (الفحص صار يغطي حقول «سجل أغراضي» والتفويض والمطابقة الذكية وغيرها).
+- **أُصلح:**
+  - سياسة CSP كانت تمنع طلبات reCAPTCHA (App Check) أربع مرات في كل فتح للموقع (أخطاء في وحدة التحكم).
+  - قيد «سُلّم بالرمز» في سجل العمليات كان يحفظ اسم المستلم وآخر 4 من هويته، والسجل لا يُحذف؛ فيبقيان بعد «حذف حسابي» خلافاً لسياسة الخصوصية.
+  - تحديث الموقع كان يمسح ملفات أي موقع آخر لك على `kidpom3-hue.github.io` من ذاكرة المتصفح.
+  - «طلباتي» كانت تتوقف ببلاغ قديم فيه نتيجة مطابقة ذكية تالفة.
+  - رسائل دخول واضحة لكلمة مرور لا توافق السياسة، وللبريد المسجّل بطريقة دخول أخرى.
+  - صور التثبيت (تظهر عند تثبيت المنصة على Android) كانت من الواجهة القديمة.
+- **عليك (الإعدادات اليدوية أعلاه):** سياسة كلمة المرور 8 أحرف (الآن 6)، وحذف `localhost` من النطاقات، وإلزام App Check للدخول، و«إيقاف البيانات التوضيحية نهائياً».
+- لا خطوات بعد الدمج (لا تغيير في القواعد).
+- **فحوص جديدة:** `npm run audit` (76 فحصاً)، و`npm run fuzz` (427 زيارة)، و`npm run shots` (يعيد صور التثبيت بعد أي تغيير كبير في الواجهة).
 
 ## فحص الثغرات H39 (الإصدار 59، قواعد v23)
 فُحصت القواعد وكل الكود بحثاً عن الثغرات البرمجية والمنطقية والأمنية، واختُبرت كل ثغرة قبل إصلاحها وبعده. التفاصيل في [`docs/AUDIT.md`](docs/AUDIT.md). أهمها:
